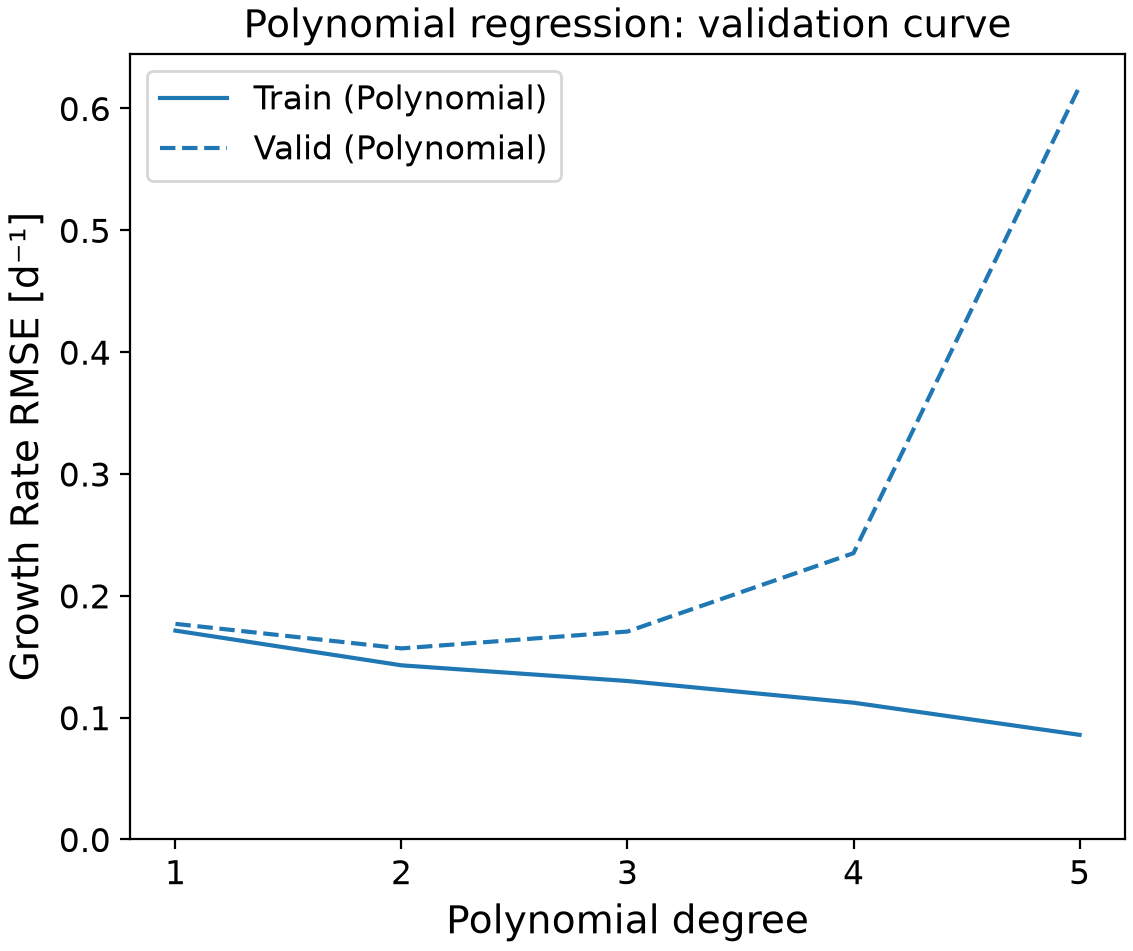
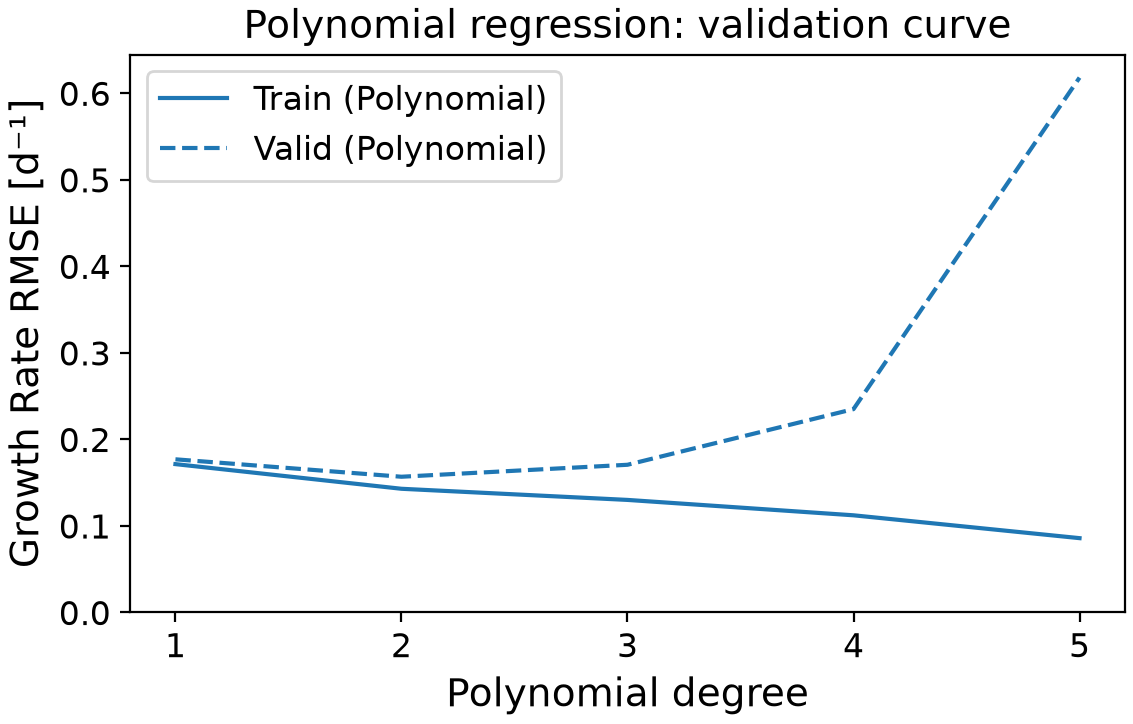
Updated

diff --git a/main.py b/main.py
@@ -143,7 +143,7 @@ os.makedirs("figures", exist_ok=True)
 COLORS = ["tab:blue", "tab:orange", "tab:green", "tab:red"]
 LINESTYLES = ["-", ":", "--", "-."]
 FIG_WIDTH = 14.39 / 2.54
-FIG_HEIGHT = 12.09 / 2.54
+FIG_HEIGHT = 9.2 / 2.54
 fontsize_xy_label = 14
 fontsize_ticks = 12
 fontsize_legend = 12

diff --git a/README.md b/README.md
@@ -68,7 +68,9 @@ The model has the highest validation RMSE among these configurations which indic
 
   - Degree-2 polynomial regression:
 This model improved validation RMSE to approximately 0.157 d⁻¹. Its validation R² of 0.185 also indicates an improvement over the linear model, although predictive performance remains limited. With four original inputs, degree 2 generates 14 polynomial features, excluding the intercept. This adds flexibility while keeping the model relatively small. Squared terms allow curvature, with pH² having the largest coefficient magnitude (−0.061), followed by temperature² (−0.020). Both coefficients are negative, indicating downward curvature in predicted growth. Interaction terms, particularly glucose × lactate and temperature × pH, also contribute to predictions, allowing the effect of one variable to depend on another.
+
 <img src="figures/validation_curve_polynomial.png" alt="Polynomial validation curve" width="350">
+
 Figure 1. Training and validation RMSE as polynomial degree increases.
 
 The polynomial validation curve shows why the most complex model is not selected. Mean validation RMSE falls from 0.177 d⁻¹ at degree 1 to 0.157 d⁻¹ at degree 2. It then rises to 0.171, 0.235, and 0.618 d⁻¹ for degrees 3, 4, and 5, respectively.
@@ -77,7 +79,9 @@ Training RMSE continues to decrease as degree increases. This growing gap indica
   - kNN model:
 The fitted model with 10 neighbors and distance weighting has the lowest mean validation RMSE, approximately 0.155 d⁻¹. This model enables the prediction of growth from nearby observations in the scaled input space, without requiring a specific equation for the relationship between culture conditions and growth. This model had the highest R² value from the tested model, but it still explained only 23.7% of the variation in growth rate, indicating limited predictive performance.
 From the 3 models tested, kNN fitted the dataset best for the training set. However, the advantage over degree-2 polynomial regression is small: approximately 0.002 d⁻¹ in RMSE. The fold-to-fold standard deviations in validation RMSE are approximately 0.011 d⁻¹ for the selected kNN model and 0.016 d⁻¹ for degree-2 regression. These values do not establish statistical significance. Therefore, degree-2 regression remains a reasonable alternative, especially when a fitted equation is useful.
+
 !<img src="figures/validation_curve_knn.png" alt="kNN validation curves" width="350">
+
 Figure 2. Training and validation RMSE for uniform and distance weighting across neighbor counts.
 
 A small neighbor count makes predictions sensitive to a few nearby observations, while a count that is too large averages over more observations and smooth out useful local patterns. Ten neighbors provides the best balance among the tested configurations for this split and cross-validation setup.
